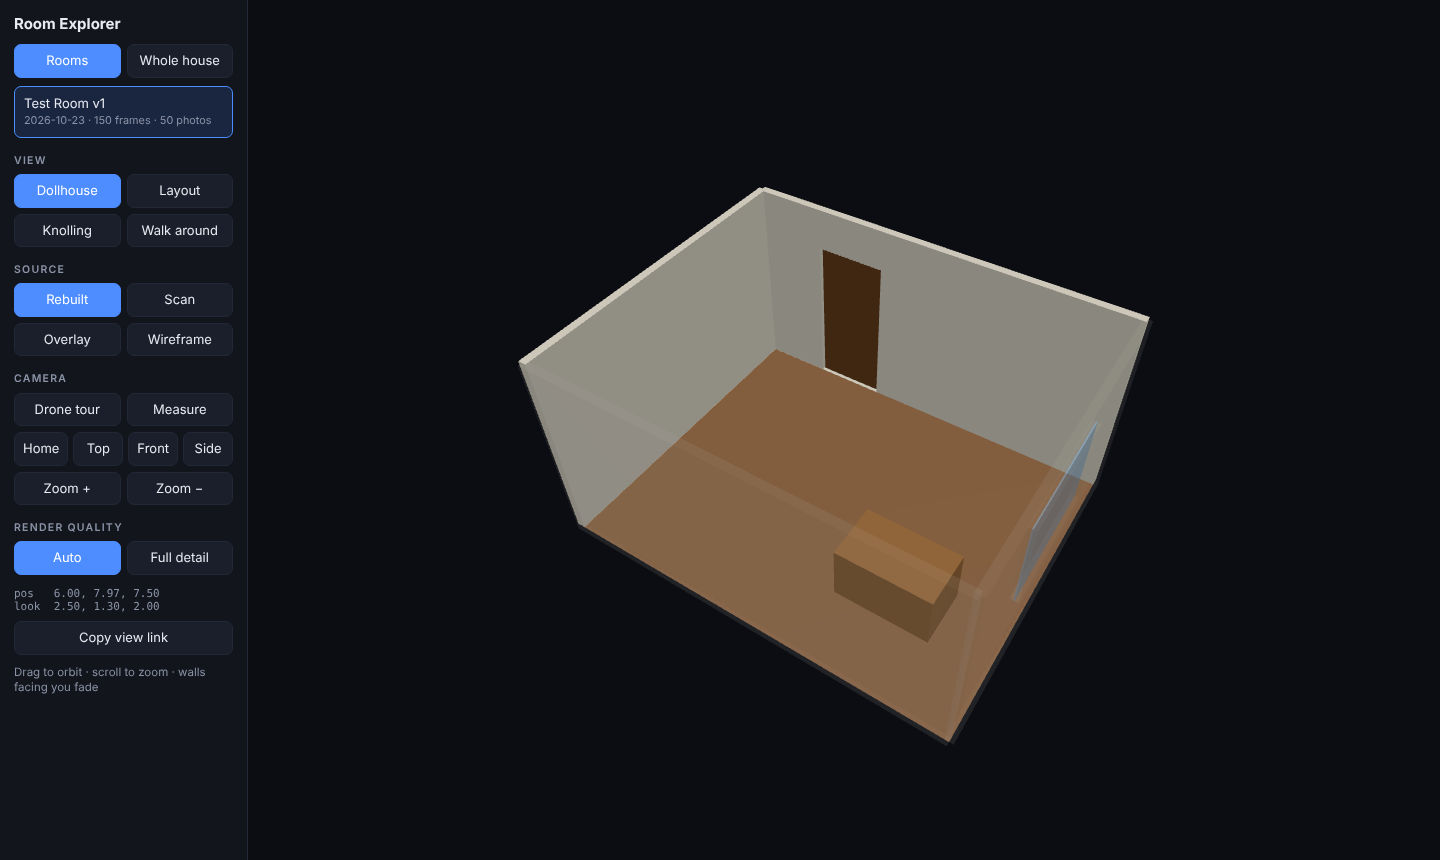
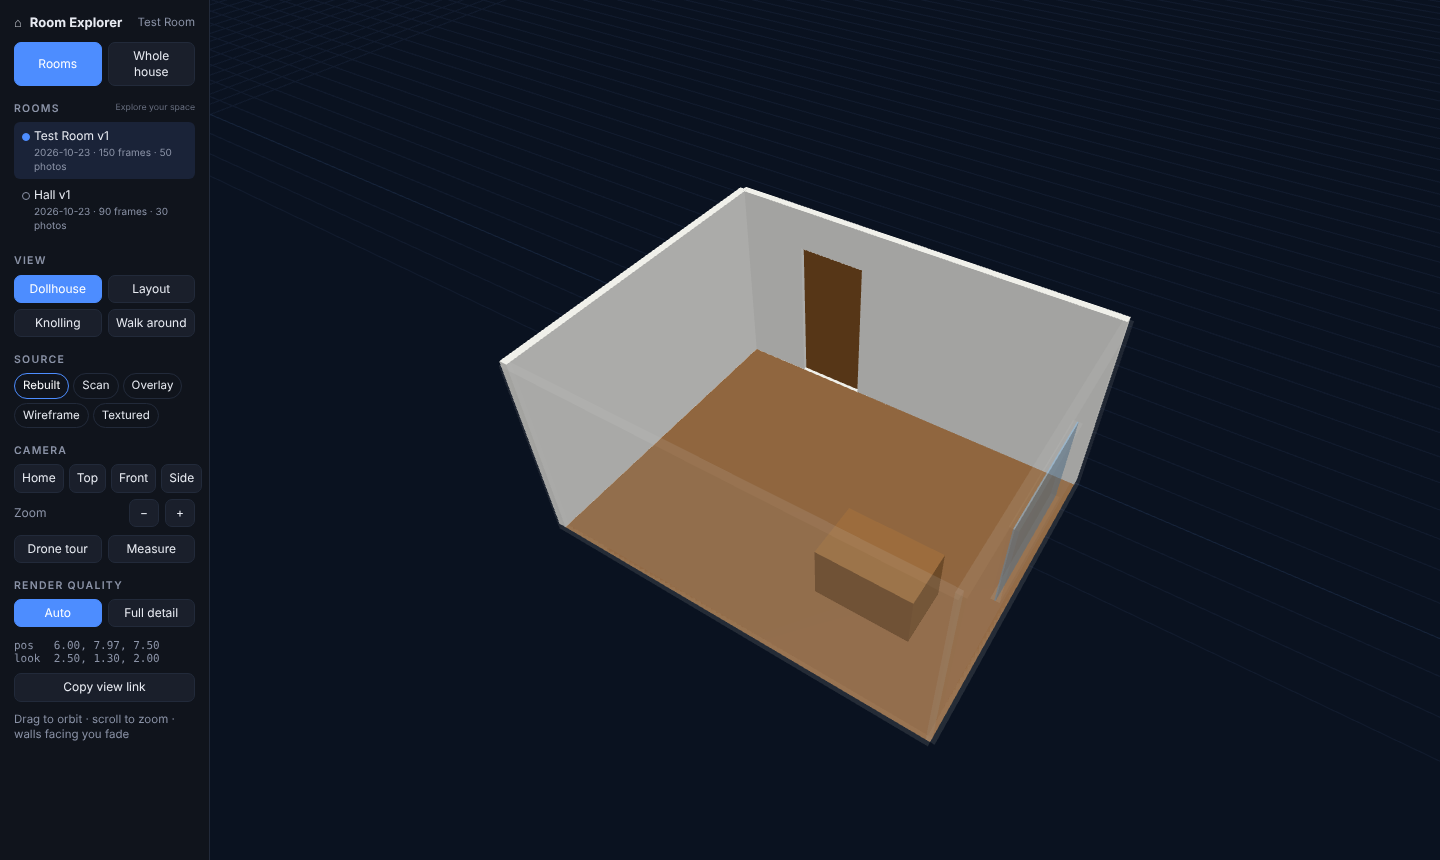
viewer: match reference styling (compact sidebar, blueprint background, cyan wireframe); CI workflow to compile iOS app
Claude-Session: https://claude.ai/code/session_017sSxgmdUW1jEpAz4armnyA

diff --git a/room-scanner/viewer/src/style.css b/room-scanner/viewer/src/style.css
@@ -1,7 +1,7 @@
-:root{--bg:#0b0d12;--panel:#12151c;--line:#232836;--fg:#e8ebf2;--mut:#8b93a7;--acc:#4d8dff}
+:root{--bg:#0a0f1a;--panel:#10141c;--line:#222a3a;--fg:#e8ebf2;--mut:#8b93a7;--acc:#4d8dff}
 *{box-sizing:border-box}html,body{margin:0;height:100%;background:var(--bg);color:var(--fg);font:13px/1.35 system-ui,Segoe UI,sans-serif;overflow:hidden}
 body{display:flex}
-aside{width:248px;flex:none;background:var(--panel);border-right:1px solid var(--line);padding:14px;overflow:auto}
+aside{width:210px;font-size:12px;flex:none;background:var(--panel);border-right:1px solid var(--line);padding:14px;overflow:auto}
 main{position:relative;flex:1;min-width:0}canvas{width:100%;height:100%;display:block}
 .brand{font-weight:650;font-size:15px;margin-bottom:10px}
 h4{margin:16px 0 6px;font-size:10.5px;letter-spacing:.12em;text-transform:uppercase;color:var(--mut);font-weight:600}
@@ -17,3 +17,12 @@ button:hover{border-color:#3a4258}button.on{background:var(--acc);border-color:v
 #measureLabel{position:absolute;pointer-events:none;background:#000c;padding:3px 7px;border-radius:5px;font-weight:600;display:none}
 #drop{position:absolute;inset:0;display:none;align-items:center;justify-content:center;background:#0b0d12dd;font-size:22px;border:2px dashed var(--acc);margin:12px;border-radius:14px}
 @media(max-width:700px){body{flex-direction:column-reverse}aside{width:100%;height:42%;border-right:0;border-top:1px solid var(--line)}}
+
+.brand{display:flex;align-items:center;gap:8px;font-size:13px}.brand .logo{opacity:.8}#crumb{margin-left:auto;color:var(--mut);font-weight:400;font-size:11.5px}
+h4 small{float:right;text-transform:none;letter-spacing:0;font-weight:400;opacity:.7}
+.pills{display:flex;flex-wrap:wrap;gap:4px;margin-bottom:6px}.pills button{padding:4px 8px;border-radius:14px;font-size:11.5px;background:transparent}
+button{padding:5px 7px;font-size:12px}
+.zoomrow{display:flex;align-items:center;gap:6px;margin-bottom:8px;color:var(--mut)}.zoomrow span{flex:1}.zoomrow button{width:30px}
+#roomlist{margin-bottom:4px}#roomlist .item{padding:6px 8px 6px 20px;position:relative;background:transparent;border:0;border-radius:6px;margin-bottom:2px}
+#roomlist .item::before{content:"";position:absolute;left:8px;top:11px;width:6px;height:6px;border-radius:50%;border:1px solid var(--mut)}
+#roomlist .item.on{background:#1a2338}#roomlist .item.on::before{background:var(--acc);border-color:var(--acc)}

diff --git a/room-scanner/viewer/index.html b/room-scanner/viewer/index.html
@@ -3,19 +3,18 @@
 <title>Room Explorer</title><link rel="stylesheet" href="/src/style.css"></head>
 <body>
 <aside id="side">
-  <div class="brand">Room Explorer</div>
+  <div class="brand"><span class="logo">⌂</span> Room Explorer <span id="crumb"></span></div>
   <div class="tabs"><button data-tab="rooms" class="on">Rooms</button><button data-tab="house">Whole house</button></div>
-  <div id="roomlist"></div>
+  <h4>Rooms <small>Explore your space</small></h4><div id="roomlist"></div>
   <h4>View</h4><div class="grid2" id="views">
     <button data-view="dollhouse">Dollhouse</button><button data-view="layout">Layout</button>
     <button data-view="knolling">Knolling</button><button data-view="walk">Walk around</button></div>
-  <h4>Source</h4><div class="grid2" id="sources">
-    <button data-src="rebuilt">Rebuilt</button><button data-src="scan">Scan</button>
-    <button data-src="overlay">Overlay</button><button data-src="wire">Wireframe</button><button data-src="tex">Textured</button></div>
+  <h4>Source</h4><div class="pills" id="sources">
+    <button data-src="rebuilt">Rebuilt</button><button data-src="scan">Scan</button><button data-src="overlay">Overlay</button><button data-src="wire">Wireframe</button><button data-src="tex">Textured</button></div>
   <h4>Camera</h4>
-  <div class="grid2"><button id="drone">Drone tour</button><button id="measure">Measure</button></div>
   <div class="grid4" id="presets"><button data-p="home">Home</button><button data-p="top">Top</button><button data-p="front">Front</button><button data-p="side">Side</button></div>
-  <div class="grid2"><button id="zin">Zoom +</button><button id="zout">Zoom −</button></div>
+  <div class="zoomrow"><span>Zoom</span><button id="zout">−</button><button id="zin">+</button></div>
+  <div class="grid2"><button id="drone">Drone tour</button><button id="measure">Measure</button></div>
   <h4>Render quality</h4><div class="grid2" id="quality"><button data-q="auto">Auto</button><button data-q="full">Full detail</button></div>
   <div id="readout"></div>
   <button id="copy">Copy view link</button>

diff --git a/room-scanner/viewer/src/main.ts b/room-scanner/viewer/src/main.ts
@@ -25,7 +25,8 @@ const $ = <T extends HTMLElement>(s: string) => document.querySelector(s) as T;
 const canvas = $<HTMLCanvasElement>('#c');
 const renderer = new THREE.WebGLRenderer({ canvas, antialias: true, preserveDrawingBuffer: true });
 const scene = new THREE.Scene();
-scene.background = new THREE.Color(0x0b0d12);
+scene.background = new THREE.Color(0x0a1220);
+const bgGrid = new THREE.GridHelper(60, 120, 0x16233a, 0x111b2e); bgGrid.position.y = -0.02; scene.add(bgGrid);
 const camera = new THREE.PerspectiveCamera(55, 1, 0.05, 200);
 const orbit = new OrbitControls(camera, canvas);
 orbit.enableDamping = true;
@@ -79,8 +80,8 @@ function applyMode() {
     syncTex(L, tex && !knoll);
     if (L.points) L.points.visible = (state.src === 'scan' || state.src === 'overlay') && !knoll;
     const wire = state.src === 'wire';
-    L.shell.traverse((o: any) => { if (o.material && o.isMesh) { o.material.wireframe = wire; } });
-    L.objects.traverse((o: any) => { if (o.material) o.material.wireframe = wire; });
+    const paint = (o: any) => { if (o.material && o.isMesh) { o.material.wireframe = wire; if (!o.userData.base) o.userData.base = o.material.color?.clone(); if (o.material.color) o.material.color.copy(wire ? new THREE.Color(0x5ec8ff) : o.userData.base); if (o.material.emissive) o.material.emissive.set(wire ? 0x2a6a88 : 0x000000); } };
+    L.shell.traverse(paint); L.objects.traverse(paint);
     if (L.points) (L.points.material as THREE.PointsMaterial).clippingPlanes = walk ? [] : [ceilClip];
     const ceil = L.shell.getObjectByName('ceiling'); if (ceil) ceil.visible = walk;
     L.shell.getObjectByName('floor')!.visible = true;
@@ -241,7 +242,7 @@ addEventListener('resize', resize);
 // ---------------------------------------------------------------- UI
 function select(L: Loaded) {
   if (current) scene.remove(current.group);
-  current = L; scene.add(L.group);
+  current = L; scene.add(L.group); $('#crumb').textContent = L.manifest.scanName;
   frameRoom(L, 'home');
   applyMode();
 }
